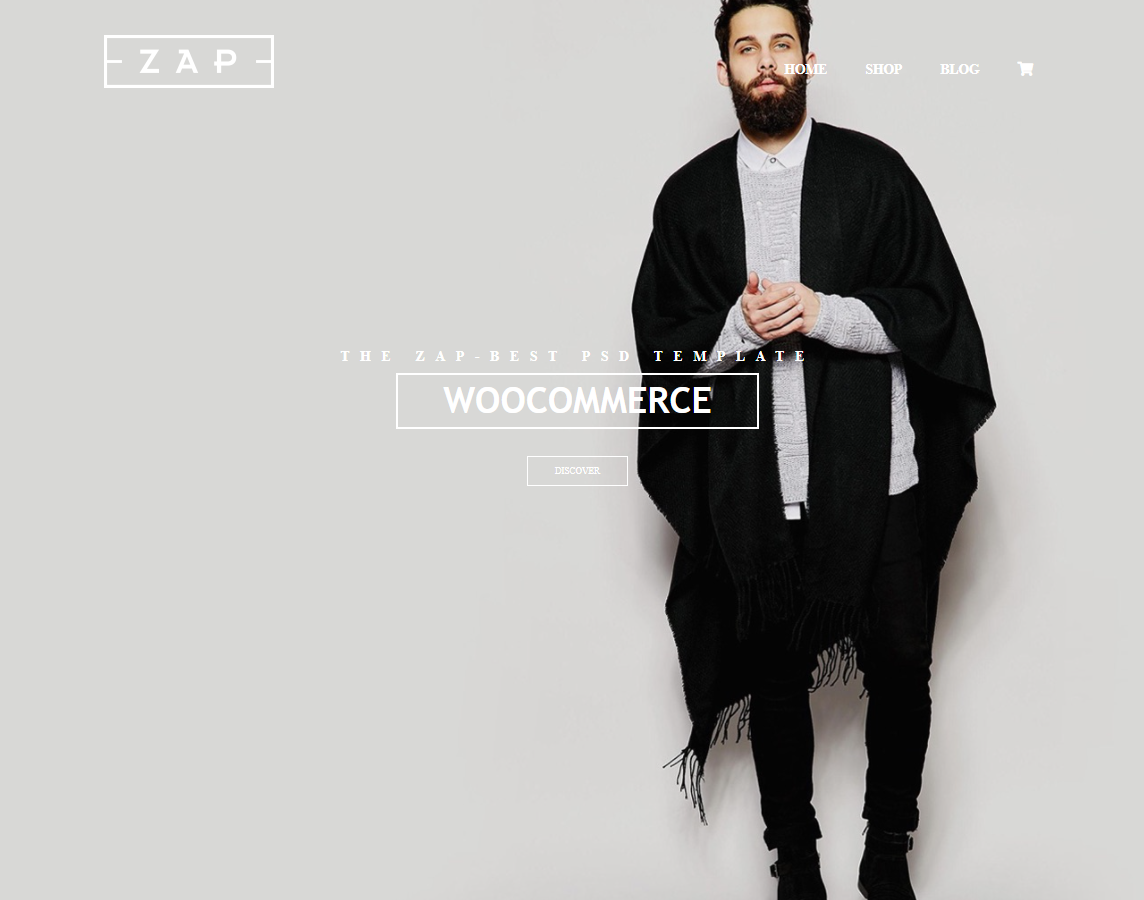
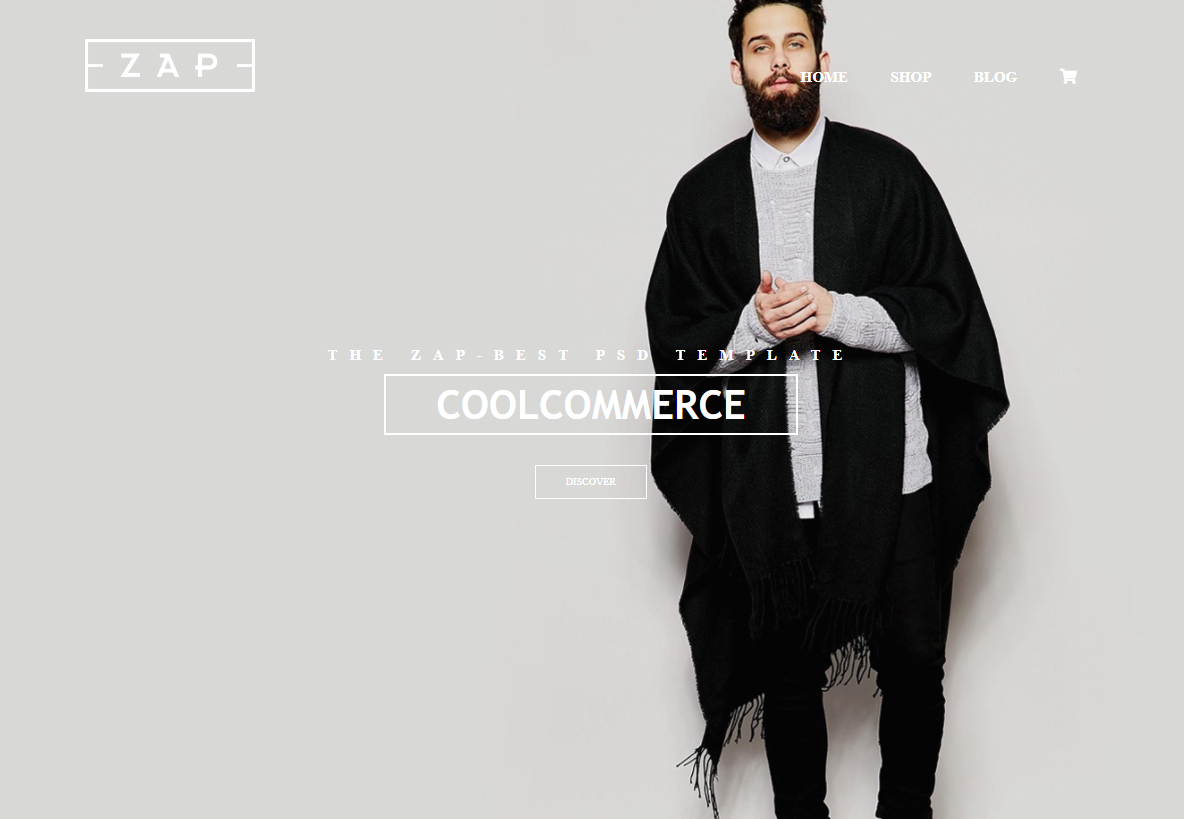
deployed pickflixx on netlify

diff --git a/src/constants/constants.js b/src/constants/constants.js
@@ -25,13 +25,13 @@ export const projects = [
       "The App shows list of popular movies the users can watch. Users can also add movies to the watchlist and watched list  ",
     image: "/images/pickflixx.png",
     tags: ["React", "ContextAPI", , "Styled Component"],
-    source: "https://github.com/opyjo/pickflixx",
+    source: "https://infallible-chandrasekhar-eac055.netlify.app/",
     visit: "https://opyjo.github.io/pickflixx/",
     id: 2,
   },
 
   {
-    title: "Woo Commerce",
+    title: "CoolCommerce",
     description: "App is a single-page PSD conversion responsive design. ",
     image: "/images/My-Ecommerce-Website.png",
     tags: ["HTML", "CSS", "SASS"],

diff --git a/src/components/Projects/Projects.js b/src/components/Projects/Projects.js
@@ -43,7 +43,7 @@ const Projects = () => (
               </TagList>
             </div>
             <UtilityList>
-              <ExternalLinks href={p.visit}>Code</ExternalLinks>
+              <ExternalLinks href={p.visit}>Live Link</ExternalLinks>
               <ExternalLinks href={p.source}>Source</ExternalLinks>
             </UtilityList>
           </BlogCard>
